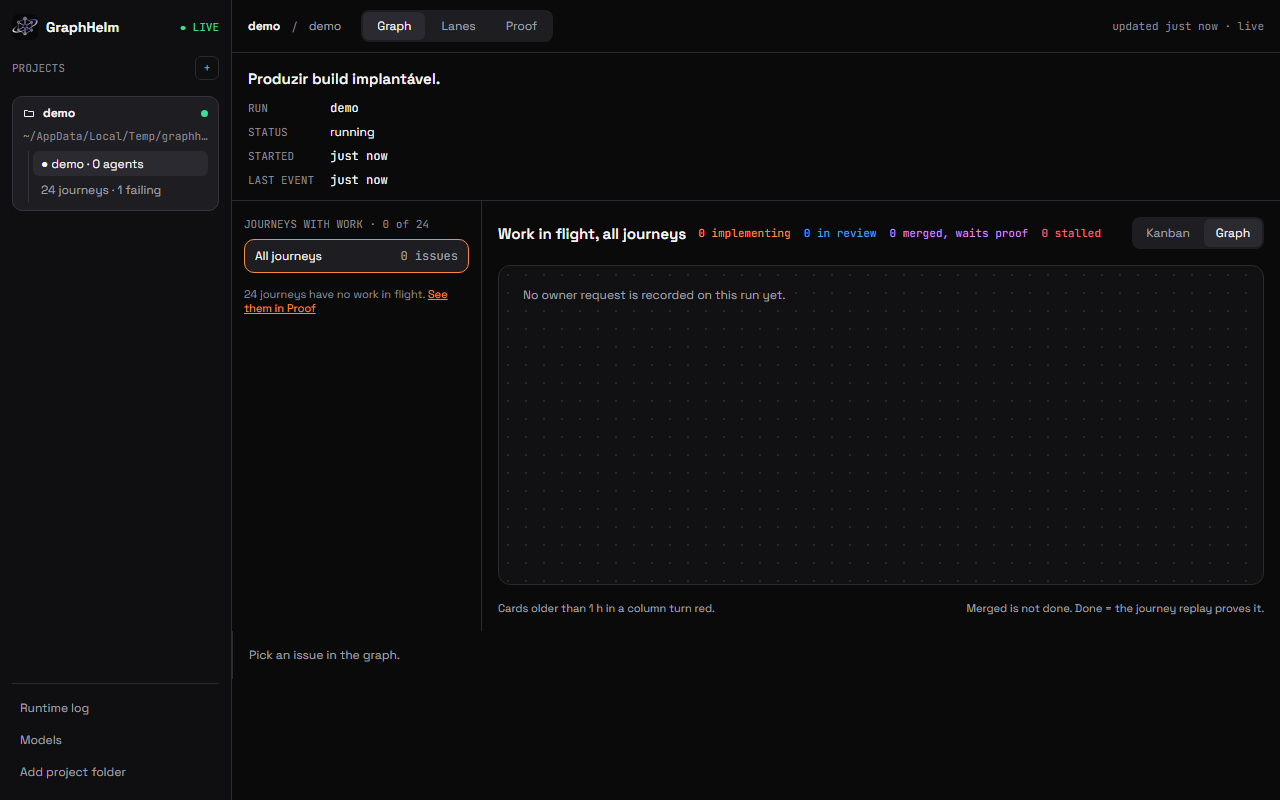
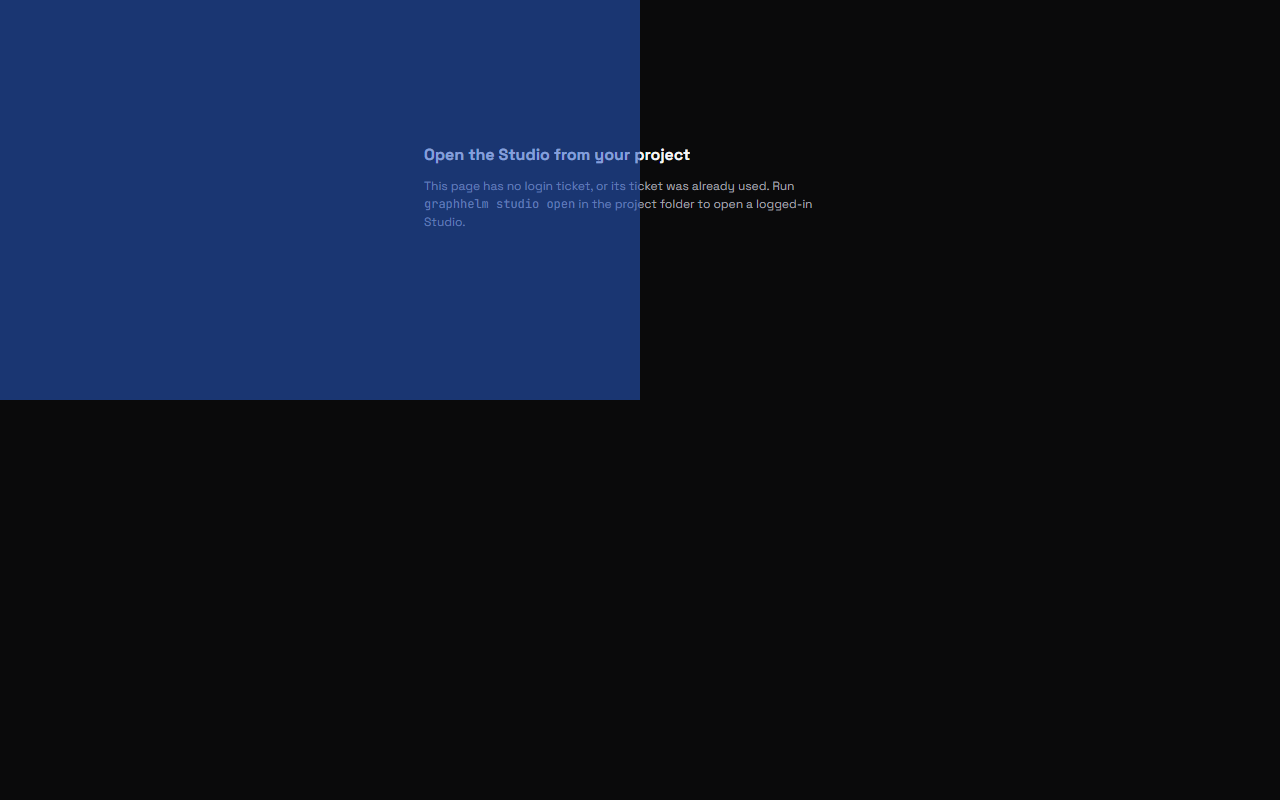
fix(studio,journeys): v20 QA round 2 - wrapped graph nodes, unlinked only without an ask, same-screen review frame, load-proof expects
Session: gh-claude-orquestrador [impl-v20]

Refs #2108

diff --git a/apps/studio/src/styles.css b/apps/studio/src/styles.css
@@ -578,11 +578,11 @@ button { font: inherit; }
 .gv-bar { display: flex; gap: 3px; flex-wrap: wrap; }
 .gv-sq { width: 10px; height: 10px; border-radius: 2px; flex: none; }
 .gv-sq.small { width: 8px; height: 8px; }
-.gv-issue { width: 24.038%; height: 108px; padding: 8px 10px; border-radius: 10px; border: 1px solid var(--edge-strong); background: var(--card); display: flex; flex-direction: column; gap: 4px; text-align: left; }
+.gv-issue { width: 24.038%; min-height: 108px; padding: 8px 10px; border-radius: 10px; border: 1px solid var(--edge-strong); background: var(--card); display: flex; flex-direction: column; gap: 4px; text-align: left; }
 .gv-issue[aria-pressed="true"] { border-color: var(--accent); }
 .gv-agent { margin-left: 4px; color: var(--faint); }
 .gv-ellipsis { white-space: nowrap; overflow: hidden; text-overflow: ellipsis; }
-.gv-clamp2 { display: -webkit-box; -webkit-box-orient: vertical; -webkit-line-clamp: 2; overflow: hidden; overflow-wrap: break-word; line-height: 1.3; }
+.gv-wrap { overflow-wrap: break-word; line-height: 1.3; }
 .gv-jname { font-size: var(--fs-meta); color: var(--faint); gap: 5px; }
 .gv-pr { width: 17.308%; min-height: 52px; padding: 8px 10px; border-radius: 10px; border: 1px solid #2a3b5c; background: #151517; display: flex; flex-direction: column; gap: 2px; }
 .gv-pr.none { border: 1px dashed var(--edge-strong); }
@@ -601,7 +601,6 @@ button { font: inherit; }
   .gv-canvas { padding: 12px; }
   .gv-cols, .gv-links { display: none; }
   .gv-cols, .gv-request { min-width: 0; }
-  .gv-clamp2 { display: block; }
   .gv-request { width: auto; height: auto; display: flex; flex-direction: column; gap: 8px; }
   .gv-node { position: static; }
   .gv-ask, .gv-issue { width: 100%; }
@@ -649,5 +648,6 @@ button { font: inherit; }
 .state-detail summary { cursor: pointer; color: var(--muted); }
 .state-detail summary:focus-visible { outline: 2px solid var(--accent); outline-offset: 2px; }
 .state-detail pre { margin: var(--s2) 0 0; font-size: var(--fs-meta); color: var(--muted); white-space: pre-wrap; overflow-wrap: anywhere; }
-.gv-issue { overflow: hidden; }
-.gv-issue > .gv-row { min-width: 0; overflow: hidden; }
+.gv-pr .gv-ellipsis, .gv-res .gv-ellipsis, .gv-issue .gv-ellipsis { white-space: normal; overflow-wrap: anywhere; }
+.gv-issue > .gv-row { min-width: 0; flex-wrap: wrap; }
+.project.other > .project-folder, .project.other > .project-counts { padding-left: 30px; }

diff --git a/apps/studio/src/graph/RequestsView.tsx b/apps/studio/src/graph/RequestsView.tsx
@@ -147,7 +147,7 @@ export function RequestsView({ runtime, executionId, journeys, onOpenProof }: Pr
                               if (item.task !== null && item.column !== null && reviewable(item.column, item.pr)) setReviewing(item.task);
                             }}
                           >
-                            <span className="gv-row"><span className="mono gv-muted">#{item.issue}</span><span className="gv-grow gv-clamp2">{item.title}</span></span>
+                            <span className="gv-row"><span className="mono gv-muted">#{item.issue}</span><span className="gv-grow gv-wrap">{item.title}</span></span>
                             <span className="gv-row" aria-label={`Steps ${item.blocks.filter((b) => b.color === "#3ddc97").length} of ${item.blocks.length}`}>
                               {item.blocks.map((block) => <span key={block.step} title={block.step} className={`gv-sq small${block.color === LIVE && (item.column === "implementing" || item.column === "review") ? " curstep" : ""}`} style={{ background: block.color }} />)}
                               <span className="mono gv-meta gv-agent">{item.lane ?? "no lane"}</span>

diff --git a/apps/studio/src/lanes/LanesView.tsx b/apps/studio/src/lanes/LanesView.tsx
@@ -169,7 +169,7 @@ export function LanesView({ runtime, executionId, journeys, onStart = null }: Pr
             return (
               <BoardColumn key={name} name={name} label={COLUMN_NAME[name]} count={cards.length}>
                 <ul aria-label={COLUMN_NAME[name]}>
-                  {cards.map((agent) => <Card key={agent.lane} agent={agent} selected={agent.lane === selected?.lane} serves={serves.get(agent.lane) ?? null} stripe={stripes.get(agent.lane) ?? null} unlinked={unlinkedIssue(requests, agent.task?.issue)} last={actions[agent.lane]?.rows[0]} onPick={pick} />)}
+                  {cards.map((agent) => <Card key={agent.lane} agent={agent} selected={agent.lane === selected?.lane} serves={serves.get(agent.lane) ?? null} stripe={stripes.get(agent.lane) ?? null} unlinked={!serves.has(agent.lane) && unlinkedIssue(requests, agent.task?.issue)} last={actions[agent.lane]?.rows[0]} onPick={pick} />)}
                 </ul>
               </BoardColumn>
             );
